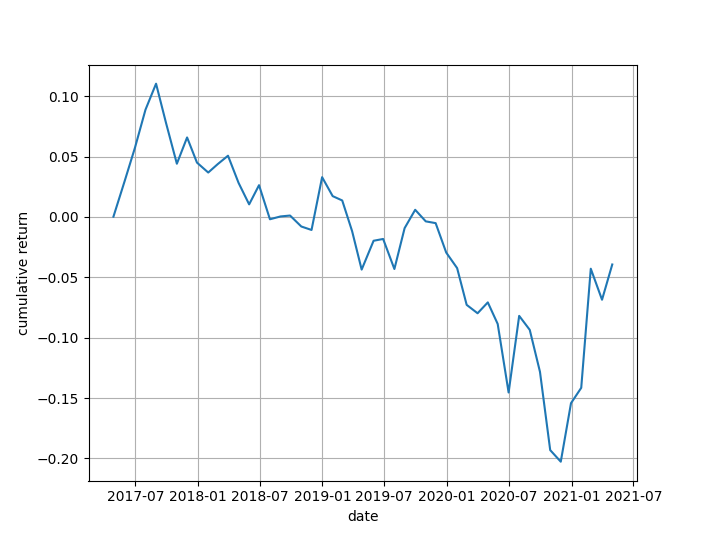
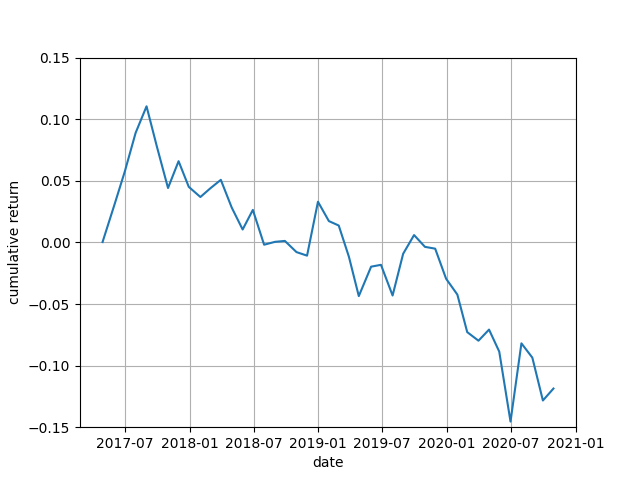
Python version change.

diff --git a/main.py b/main.py
@@ -35,8 +35,7 @@ closes = closes.sort_index()
 # 欠損データの補完
 closes = closes.ffill()
 # データ範囲の指定
-closes = closes.query('Date <= "2020-11-10"')
-
+closes = closes[closes.index <= "2020-9-30"]
 
 # 当期純利益データフレームの作成
 # 当期純利益
@@ -61,6 +60,8 @@ earnings.columns = [str(s) + ".T" for s in topix500_codes] + ["^N225"]
 earnings.index = pd.to_datetime(earnings.index)
 # データのソート
 earnings = earnings.sort_index()
+# データ範囲の指定
+earnings = earnings[earnings.index <= "2020-9-30"]
 
 
 # 自己資本データフレームの作成
@@ -86,6 +87,8 @@ equity.columns = [str(s) + ".T" for s in topix500_codes] + ["^N225"]
 equity.index = pd.to_datetime(equity.index)
 # データのソート
 equity = equity.sort_index()
+# データ範囲の指定
+equity = equity[equity.index <= "2020-9-30"]
 
 
 # 発行株数データフレームの作成
